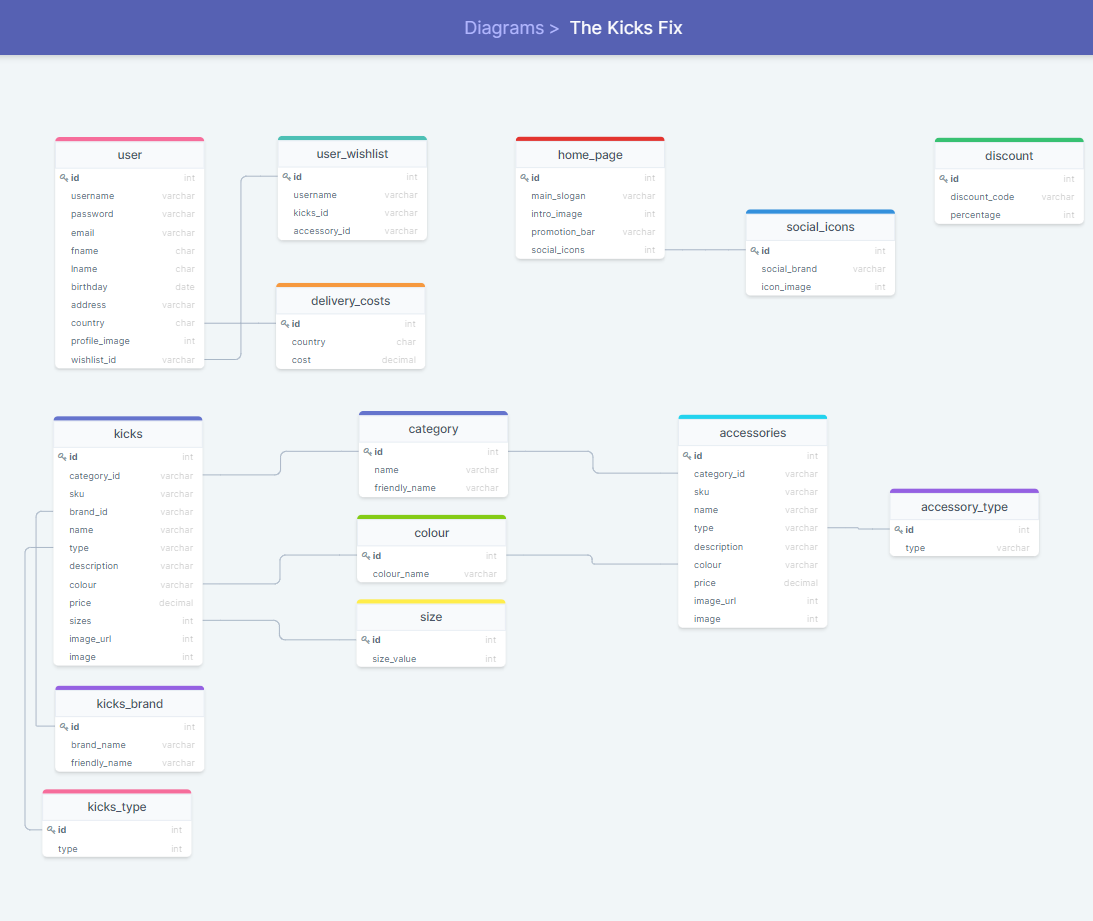
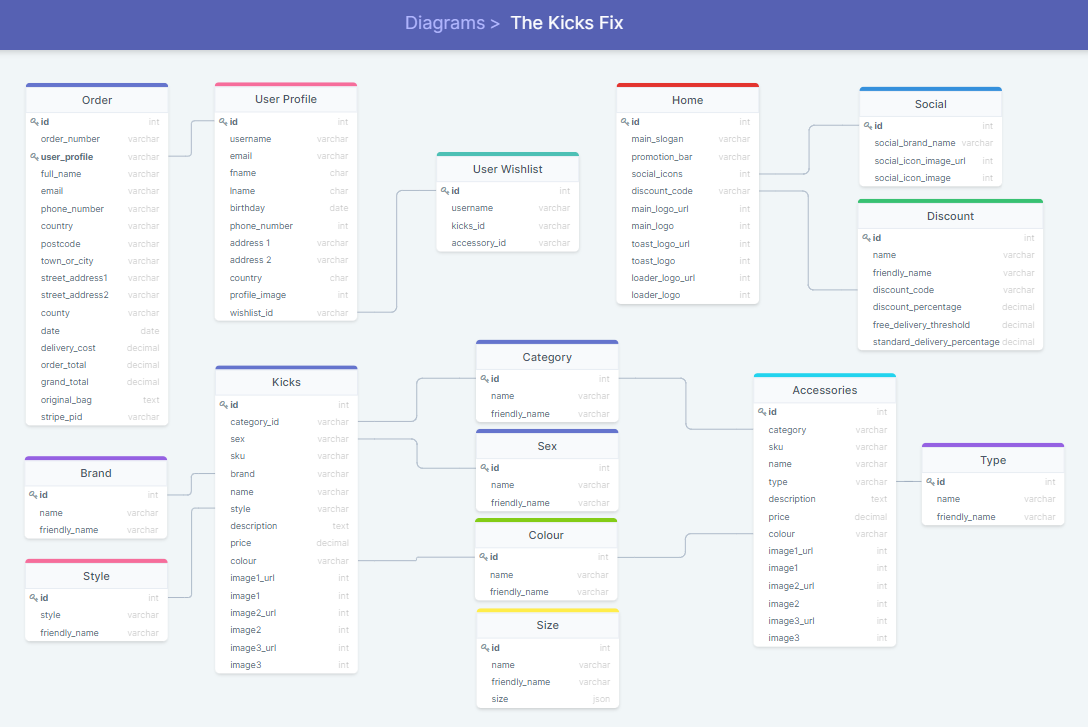
Add to README

diff --git a/README.md b/README.md
@@ -211,8 +211,8 @@ Anyway, you can have a wee look at my wireframes below:
 For my database structure I had to think about this for a while hence why I have added before I'm about to start adding my models to my project.
 To be honest it took me while to get my head around it but I think I got there. After watching the Code Institute tutorials again, endless Youtube videos and 
 undeniable assistance from my lengendary mentor, I have produced my first Database Schema. I didn't lay one out for my MS3 which cost me valuable marks but for this project, I wasn't going to make the same mistake.
-The Kicks Fix Schema is shown below where I have set up 14 models and have shown the various relationships between them. I may add more if required as my project develops
-& I think of new features that can be implemented but these are the main models that my project needs and I am very happy with the structure.
+The Kicks Fix Schema is shown below where I have set up 15 models and have shown the various relationships between them. I may add more if required as my project develops
+and I think of new features that can be implemented but these are the main models that my project needs and I am very happy with the structure.
 I used [drawSQL](https://drawsql.app/) to construct my schema which is a free online app and really awesome, once you get the hang of it !
 
 ![The-Kicks-Fix Schema](https://github.com/RaVeR76/The-Kicks-Fix/raw/main/docs/screenshots/schema.png)
@@ -407,6 +407,12 @@ Original Bag | original_bag | models.TextField | null=False, blank=False, defaul
 Stripe PID | stripe_pid | models.CharField | max_length=254, null=False, blank=False, default=''
 
 
+### **Data Modelling Conclusion**
+
+I struggled a little at the start with this but the more I got into the project I started to understand most of it and how it all worked. Don't get me wrong, I still have a lot to learn which will come when the pressure to meet the project deadline is off and I can test Django out at my own pace. I never got to utilise my Wishlist for the user to have their own personal wishlists or Social for ALL the social icons that I was going to link but I'll just add these to Features to be Implemented. I did try my best to add as much to the backend as possible like the logos, delivery costs, delivery threshold etc so that if any changes needed to be made for these, it would be much simplier.  
+The more I play around and practise with Django and databases then the more confident and experienced I'll become, which is only a good thing, but while I had many head scratching evenings after work, I think the overall structure is okay and far from perfect but it works and that's the main aim here.
+
+
 
 ## **Features**
 ---
@@ -426,6 +432,7 @@ Stripe PID | stripe_pid | models.CharField | max_length=254, null=False, blank=F
 - Admin page for adding discounts and changing delivery costs which again you can do though Django Admin, in the Discounts database
 - Registration by utilising Social accounts like Google or Facebook
 - Different payments types like Paypal or GooglePay although Stripe works well
+- Utilise the discount code on my checkout page so that when a user inputs one, it checks it for validation, and then deducts the associated discount percentage from the total
 
 [Back to Top](#table-of-contents)
 
